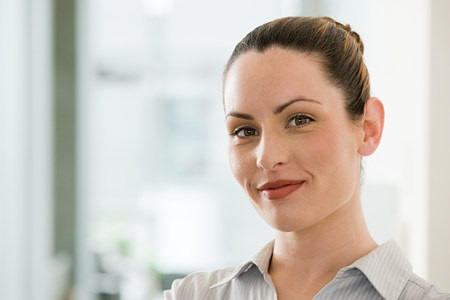
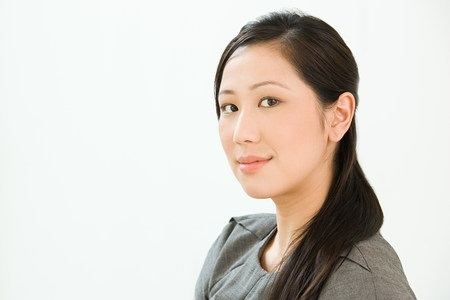
version final
final de evaluación css

diff --git a/2-Evaluacion_CSS_DiseñoWebResponsive_Juan_DelPuerto/css/estilos.css b/2-Evaluacion_CSS_DiseñoWebResponsive_Juan_DelPuerto/css/estilos.css
@@ -7,6 +7,11 @@ body {
   margin: 0;
 	padding: 0;
 	width: 100%;
+
+  display: -webkit-flex;
+  display: flex;
+  -webkit-flex-flow: row wrap;
+  flex-flow: row wrap;
 }
 
 .contenido div {
@@ -83,22 +88,6 @@ color: white;
   background-color:  #d5c75f;
 }
 
-.pie-pagina1{
-    background-color:  #C6d5c5;
-}
-
-.pie-pagina2{
-    background-color:  #C6d5c5;
-}
-
-.pie-pagina3{
-    background-color:  #C6d5c5;
-}
-
-.pie-pagina4{
-    background-color:  #C6d5c5;
-}
-
 .paisaje1{
   background-color:  #d5c75f;
 }
@@ -138,11 +127,59 @@ color: white;
   filter:sepia(90%);
 }
 
-.contenido{
-  display: -webkit-flex;
-	display: flex;
-	-webkit-flex-flow: row wrap;
-	flex-flow: row wrap;
+.retrato1{
+  background-color:  #d5c75f;
+}
+
+.retrato2{
+  background-color:  #d5c75f;
+}
+
+.retrato3{
+  background-color:  #d5c75f;
+}
+
+.retrato4{
+  background-color:  #d5c75f;
+}
+
+.retrato5{
+  background-color:  #d5c75f;
+}
+
+.retrato6{
+  background-color:  #d5c75f;
+}
+
+.imagen-retrato1{
+  -webkit-filter:blur(10px);
+  filter:blur(10px);
+}
+
+.imagen-retrato2, .imagen-retrato4, .imagen-retrato6{
+  -webkit-filter:grayscale(100%);
+  filter:grayscale(100%);
+}
+
+.imagen-retrato3{
+  -webkit-filter:sepia(90%);
+  filter:sepia(90%);
+}
+
+.pie-pagina1{
+    background-color:  #C6d5c5;
+}
+
+.pie-pagina2{
+    background-color:  #C6d5c5;
+}
+
+.pie-pagina3{
+    background-color:  #C6d5c5;
+}
+
+.pie-pagina4{
+    background-color:  #C6d5c5;
 }
 
 .cabecera, .imagen-central, .paisaje-principal, .retrato-principal{
@@ -150,6 +187,10 @@ color: white;
 }
 
 .paisaje1, .paisaje2, .paisaje3, .paisaje4, .paisaje5, .paisaje6{
+  width: 100%;
+}
+
+.retrato1, .retrato2, .retrato3, .retrato4, .retrato5, .retrato6{
   width: 100%;
 }
 
@@ -228,6 +269,10 @@ figcaption{
     width: 100%;
   }
 
+  .retrato1, .retrato2, .retrato3, .retrato4, .retrato5, .retrato6{
+    width: 100%;
+  }
+
   .pie-pagina1, .pie-pagina2, .pie-pagina3, .pie-pagina4{
     width: 100%;
   }
@@ -274,6 +319,14 @@ figcaption{
   }
 
   .paisaje4, .paisaje5, .paisaje6{
+    width: 33.33%;
+  }
+
+  .retrato1, .retrato2, .retrato3{
+    width: 33.33%;
+  }
+
+  .retrato4, .retrato5, .retrato6{
     width: 33.33%;
   }
 

diff --git a/2-Evaluacion_CSS_DiseñoWebResponsive_Juan_DelPuerto/html/retratos.html b/2-Evaluacion_CSS_DiseñoWebResponsive_Juan_DelPuerto/html/retratos.html
@@ -28,7 +28,36 @@
           </nav>
         </div>
       </div>
-
+      <div style="text-align:center;" class="retrato1">
+        <figure>
+          <img class="imagen-retrato1" src="../img/Retrato1.jpg" alt="Retrato1" width="100%" >
+        </figure>
+      </div>
+      <div style="text-align:center;" class="retrato2">
+        <figure>
+          <img class="imagen-retrato2" src="../img/Retrato2.jpg" alt="Retrato2" width="100%" >
+        </figure>
+      </div>
+      <div style="text-align:center;" class="retrato3">
+        <figure>
+          <img class="imagen-retrato3" src="../img/Retrato3.jpg" alt="Retrato3" width="100%" >
+        </figure>
+      </div>
+      <div style="text-align:center;" class="retrato4">
+        <figure>
+          <img class="imagen-retrato4" src="../img/Retrato4.jpg" alt="Retrato4" width="100%" >
+        </figure>
+      </div>
+      <div style="text-align:center;" class="retrato5">
+        <figure>
+          <img class="imagen-retrato5" src="../img/Retrato5.jpg" alt="Retrato5" width="100%" >
+        </figure>
+      </div>
+      <div style="text-align:center;" class="retrato6">
+        <figure>
+          <img class="imagen-retrato6" src="../img/Retrato6.jpg" alt="Retrato6" width="100%" >
+        </figure>
+      </div>
       <div class="pie-pagina1">
         <h1>&nbsp;Contacto</h1>
         <h2>

diff --git a/2-Evaluacion_CSS_DiseñoWebResponsive_Juan_DelPuerto/index.html b/2-Evaluacion_CSS_DiseñoWebResponsive_Juan_DelPuerto/index.html
@@ -35,14 +35,22 @@
       </div>
       <div style="text-align:center;" class="paisaje-principal">
         <figure>
-          <img class="imagen-paisaje-principal" src="img/PaisajePrincipal.jpg" alt="Imagen central" width="100%" >
-          <figcaption><strong>Paisajes</strong></figcaption>
+          <a href="html/paisajes.html">
+            <img class="imagen-paisaje-principal" src="img/PaisajePrincipal.jpg" alt="Imagen central" width="100%" >
+          </a>
+          <a href="html/paisajes.html">
+            <figcaption><strong>Paisajes</strong></figcaption>
+          </a>
         </figure>
       </div>
       <div style="text-align:center;" class="retrato-principal">
         <figure>
-          <img class="imagen-retrato-principal" src="img/RetratoPrincipal.jpg" alt="Imagen central" width="100%" >
-          <figcaption><strong>Retratos</strong></figcaption>
+          <a href="html/retratos.html">
+            <img class="imagen-retrato-principal" src="img/RetratoPrincipal.jpg" alt="Imagen central" width="100%" >
+          </a>
+          <a href="html/retratos.html">
+            <figcaption><strong>Retratos</strong></figcaption>
+          </a>
         </figure>
       </div>
       <div class="pie-pagina1">
